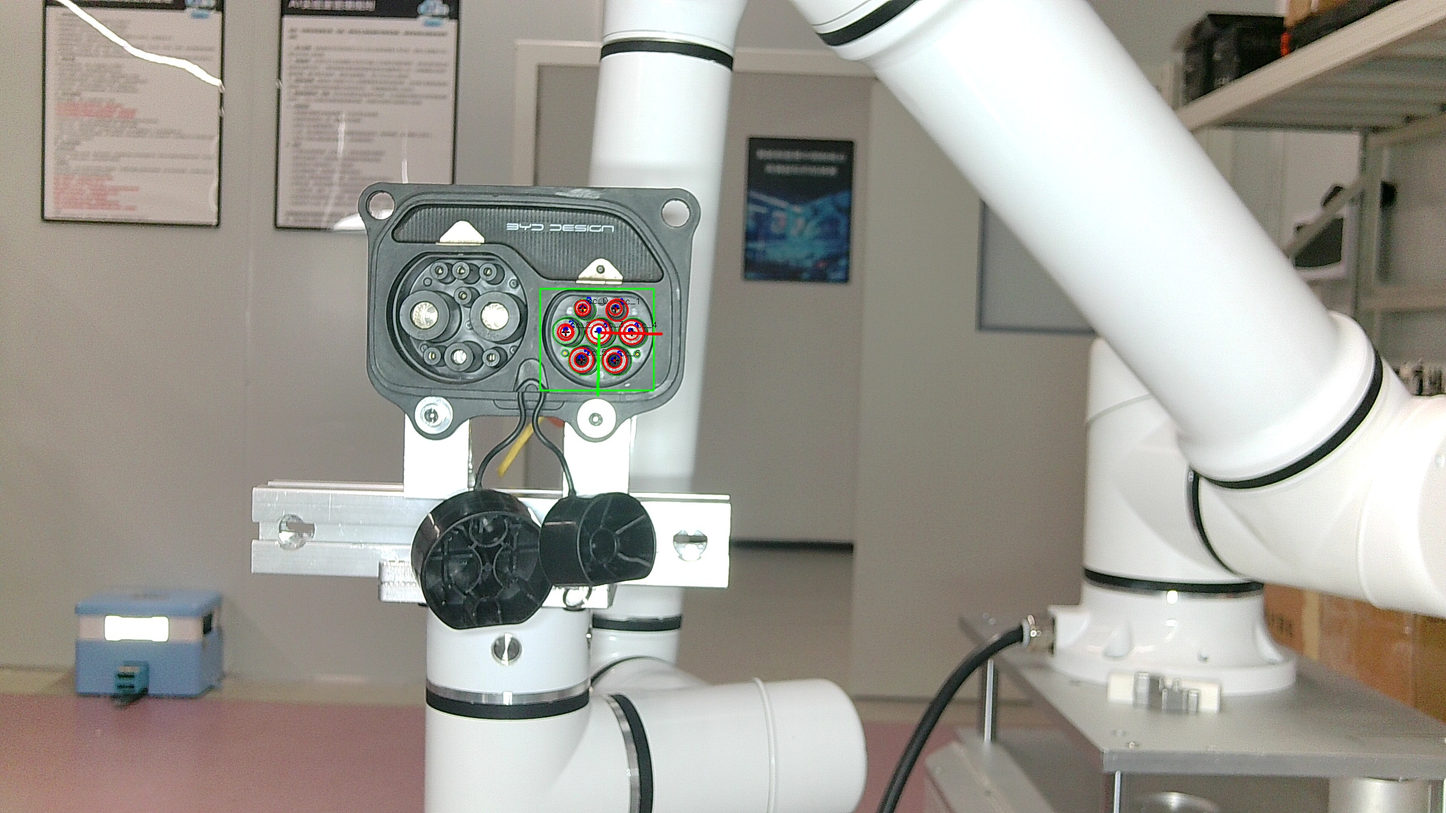
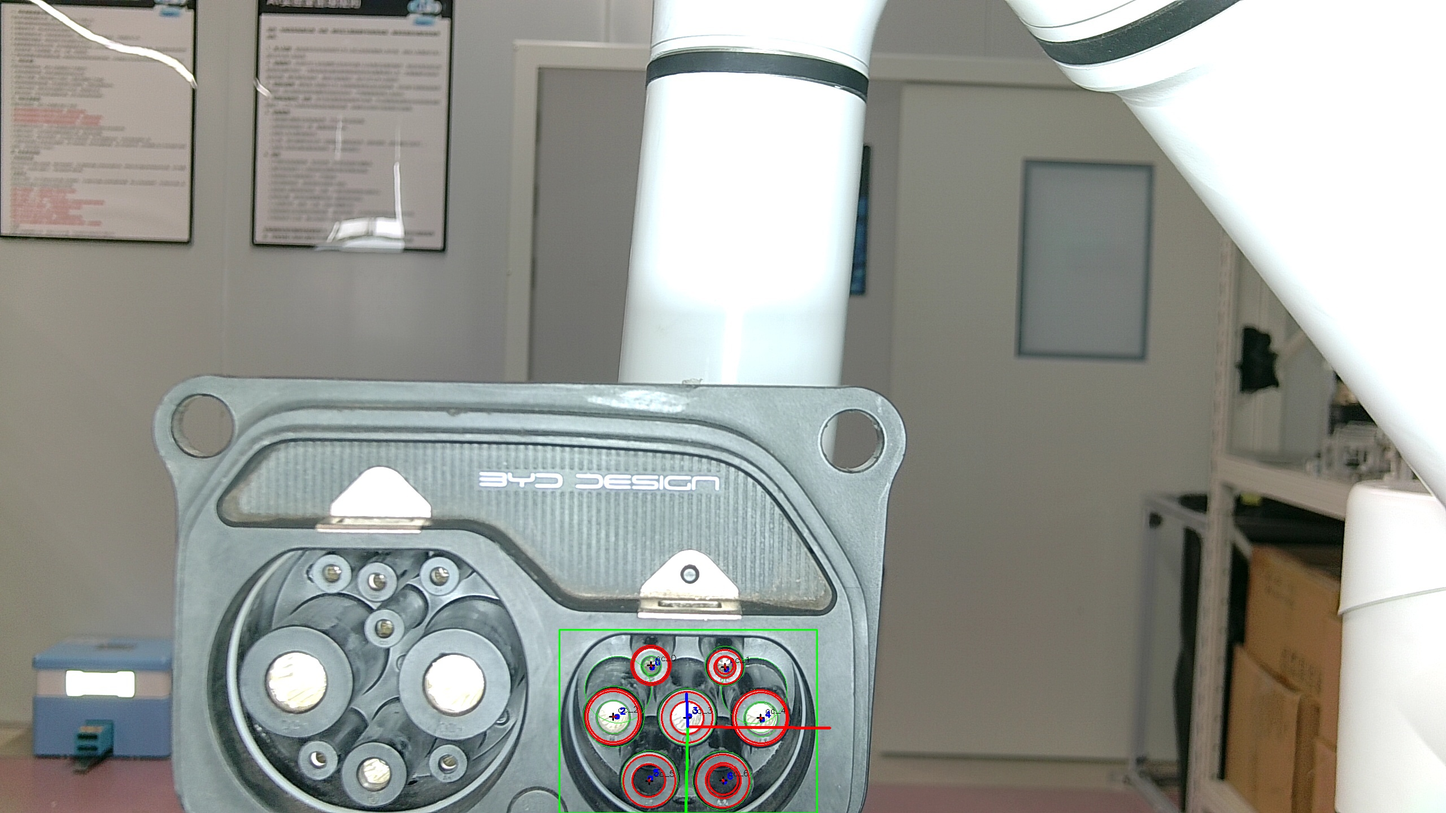
修改数据集路径, 暂不使用pyced, 批量处理功能待适配

diff --git a/keypoint_detector.py b/keypoint_detector.py
@@ -6,12 +6,13 @@ import time
 from scipy.optimize import linear_sum_assignment
 from ultralytics import YOLO
 
-try:
-    os.add_dll_directory(r'D:\SDK\opencv4.7.0_Library\x64\vc17\bin')
-    import pycylinderedsf as pyced
-    HAS_PYCED = True
-except (ImportError, OSError):
-    HAS_PYCED = False
+# try:
+#     os.add_dll_directory(r'D:\SDK\opencv4.7.0_Library\x64\vc17\bin')
+#     import pycylinderedsf as pyced
+#     HAS_PYCED = True
+# except (ImportError, OSError):
+#     HAS_PYCED = False
+HAS_PYCED = False
 
 # ==============================================================================
 # 3D 物体坐标模板 (单位: mm)
@@ -1634,7 +1635,7 @@ if __name__ == "__main__":
     )
 
     # --- 单帧处理 ---
-    img_path = "./2026-05-11_10_47_33_027.png"
+    img_path = "dataset/save_data3/20260511_120244/images/frame_004995.jpg"
     frame = cv2.imread(img_path)
     # 慢充口：coplanar=True, 快充口 coplanar=False
     pnp_result = detector.process_frame(frame, coplanar=True)
@@ -1672,7 +1673,7 @@ if __name__ == "__main__":
     cv2.imwrite("result.jpg",vis_img)
     # --- 批量处理到基坐标系 ---
     # detector.batch_process_to_base(
-    #     img_dir="D:/Data/manchong/save_data5",
-    #     save_dir="D:/Vscode/code/result_data5",
+    #     img_dir="dataset/save_data3/20260511_120244/images",
+    #     save_dir="result/save_data3/20260511_120244/cdd",
     #     coplanar=True,
     # )
